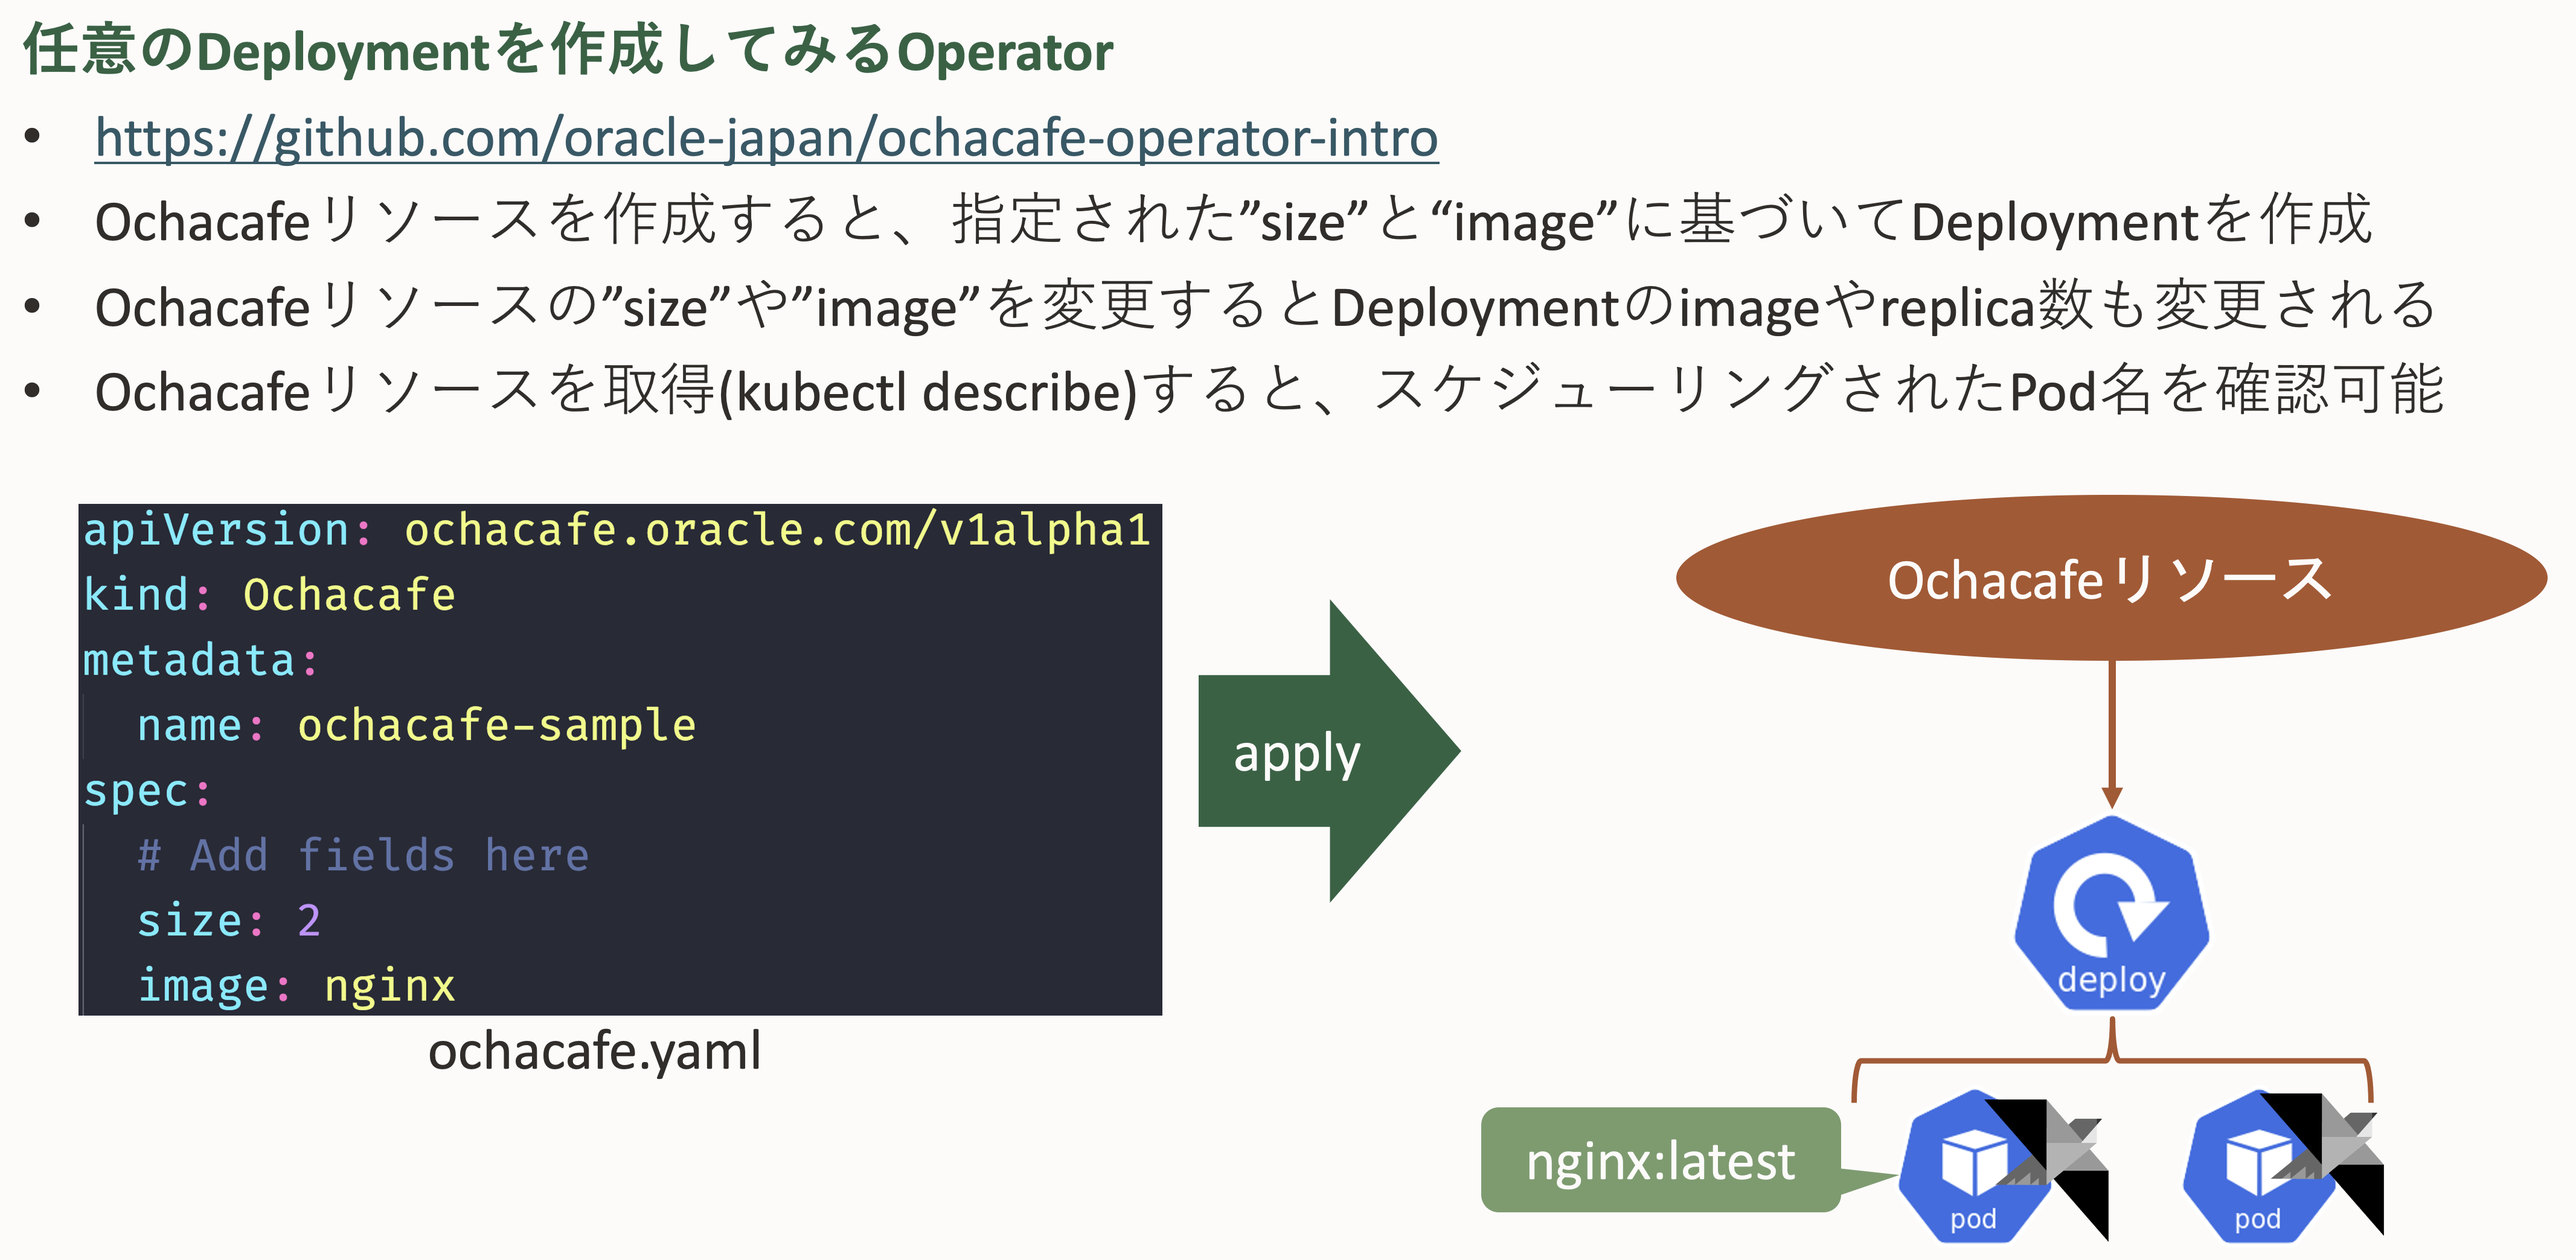
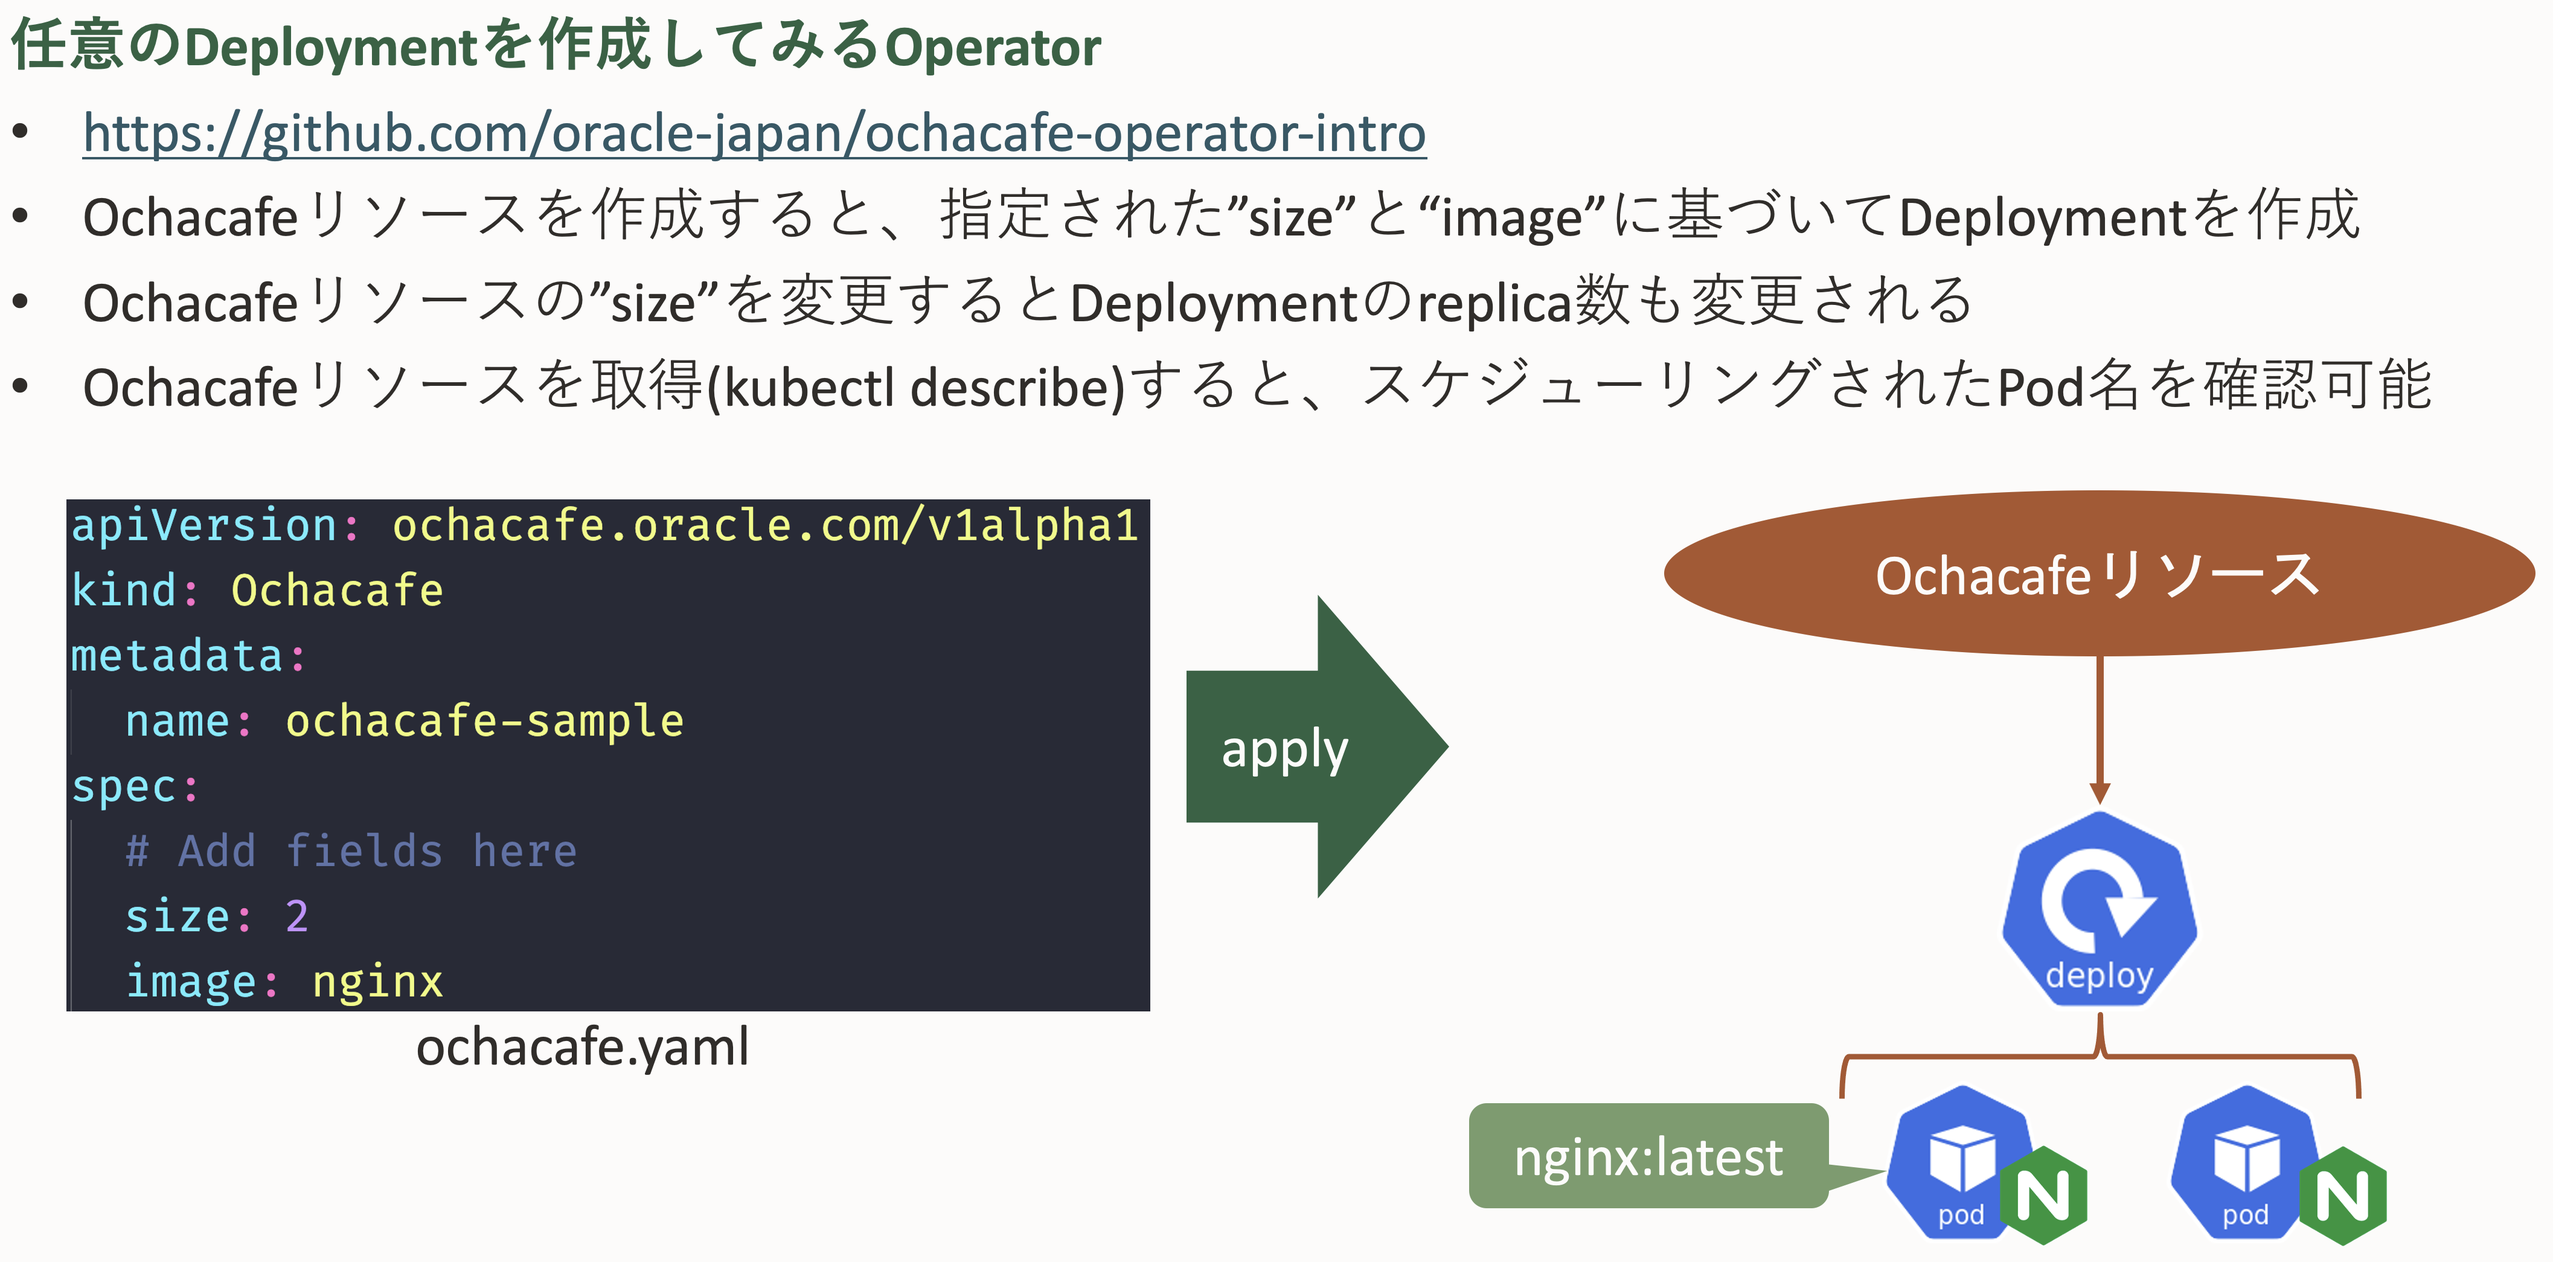
README改善

diff --git a/README.md b/README.md
@@ -4,6 +4,9 @@
 
 ![img/001.png](img/001.png)
 
+- 補足
+  - Update時にimageは変更されないので、ご注意ください。(最初に指定したイメージのままになります)
+
 ## 2. Operatorのデプロイ
 
 ### 共通手順
@@ -43,7 +46,7 @@ make docker-build docker-push
 operator-sdk olm install
 ```
 
-#### 2.Operatorコンテナイメージのビルドとプッシュ
+#### 2.バンドルイメージのビルドとプッシュ
 
 ```sh
 make bundle bundle-build bundle-push
